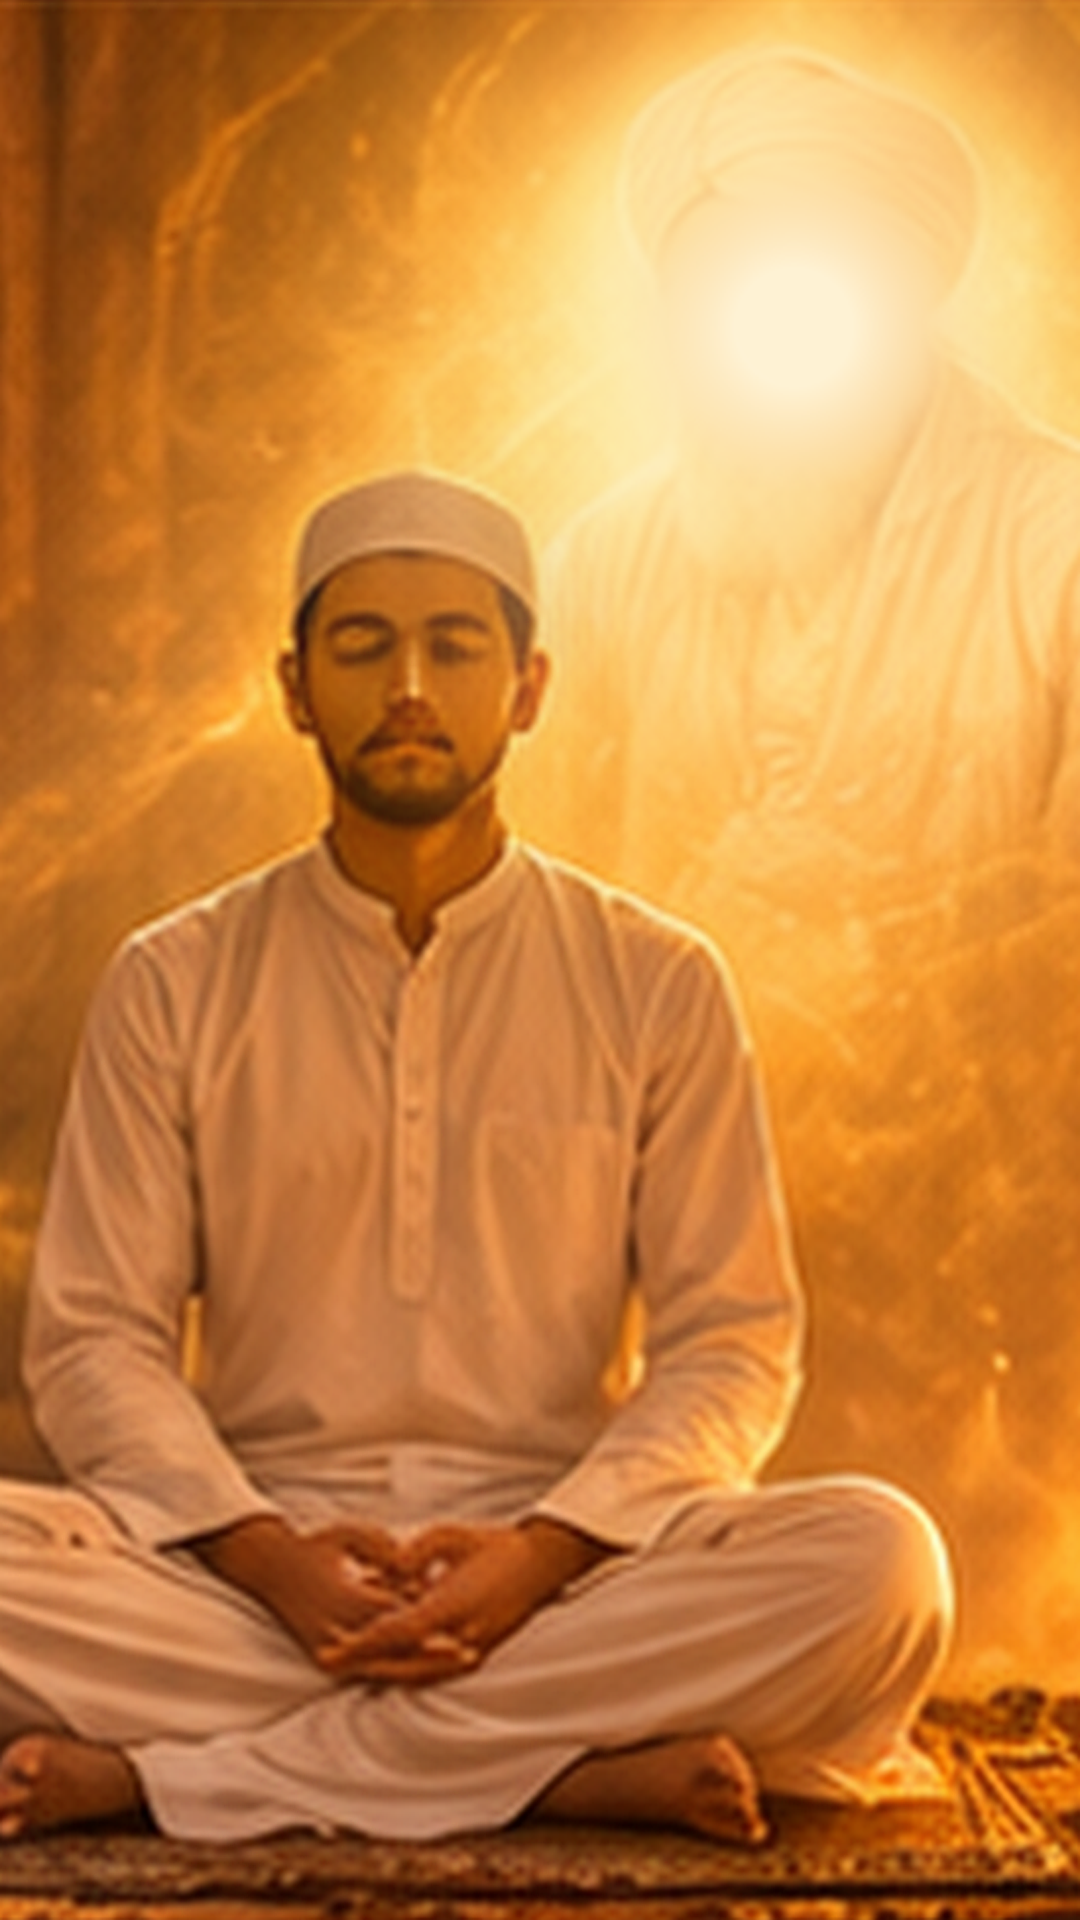
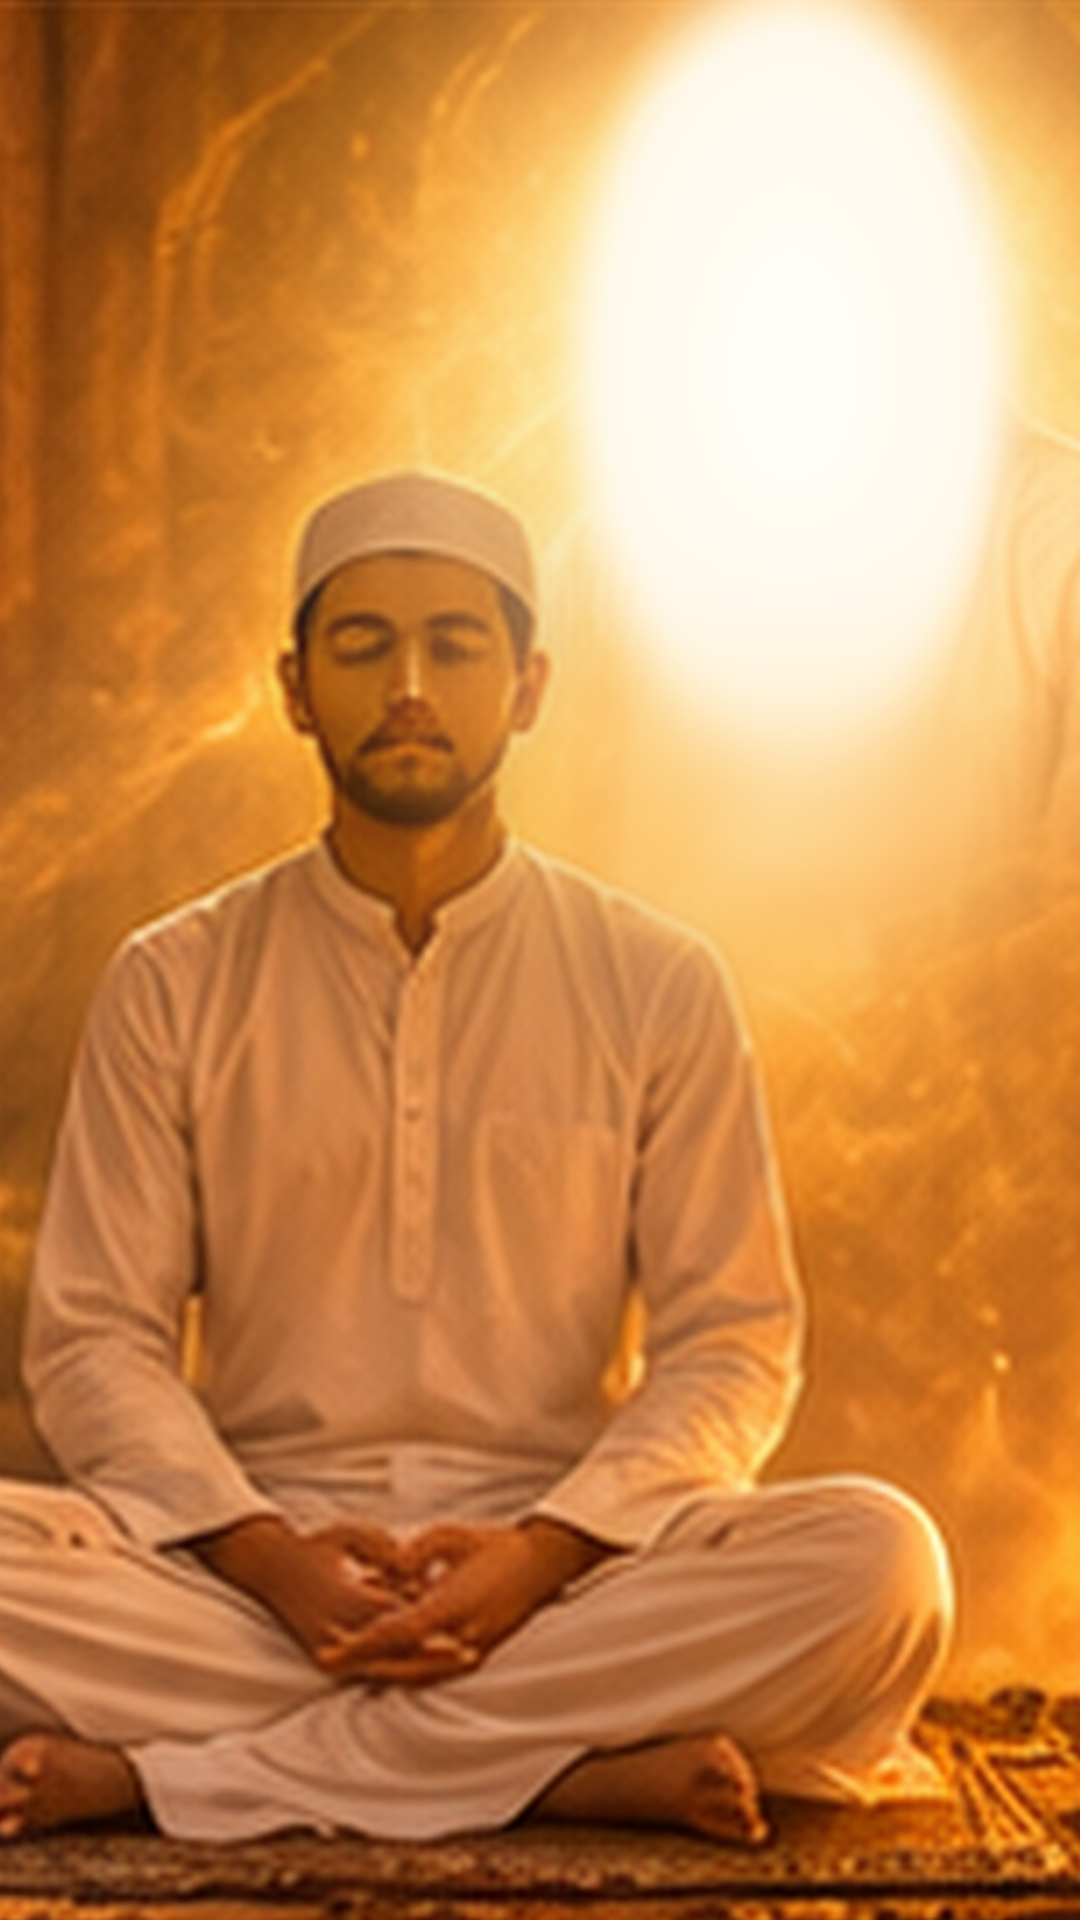
Nizam-ul-Amal 7 Shorts 2-4: second round of picture fixes (elder faces in light, no ground book, no wrist threads or lamp rows, Urdu word below the murids box)
Claude-Session: https://claude.ai/code/session_01GAgT6JHTKoSgF7eULv7uw6

Changed region(s): [[0.4583, 0.0, 1.0, 0.5312]]

diff --git a/tools/shorts/projects/2026-11-nizam-ul-amal-7/clip_words.py b/tools/shorts/projects/2026-11-nizam-ul-amal-7/clip_words.py
@@ -3,7 +3,7 @@ WORDS = {'N7S1-07': {'text': 'خیالات خیر'},
  'N7S1-08': {'text': 'اُدْعُوْنِیْ اَسْتَجِبْ لَکُمْ', 'from': 234.0},
  'N7S1-11': {'text': 'اَلدُّعَاءُ مُخُّ الْعِبَادَةِ', 'from': 531.0},
  'N7S1-12': {'text': 'دعا'},
- 'N7S2-01': {'text': 'یاد فراموش'},
+ 'N7S2-01': {'text': 'یاد فراموش', 'text_at': (0.5, 0.25)},   # below the 'for murids' box (shown 3.5-10 s)
  'N7S2-04': {'text': 'الحمد للہ'},
  'N7S2-05': {'text': 'استغفر اللہ'},
  'N7S2-10': {'text': 'استغفر اللہ'},
@@ -13,7 +13,7 @@ WORDS = {'N7S1-07': {'text': 'خیالات خیر'},
  'N7S3-04': {'text': 'حرکت'},
  'N7S3-07': {'text': 'بھاگو', 'text_at': (0.3, 0.22)},
  'N7S3-13': {'text': 'عالم تخیل'},
- 'N7S4-01': {'text': 'پناہ'},
+ 'N7S4-01': {'text': 'پناہ', 'text_at': (0.5, 0.25)},   # below the 'for murids' box
  'N7S4-04': {'text': 'أَعُوْذُ بِاللّٰهِ', 'from': 1010.6},
  'N7S4-05': {'text': 'ہوں   ہوں'},
  'N7S4-11': {'text': 'وَيَأْتِ بِخَلْقٍ جَدِيدٍ', 'from': 1405.0},
